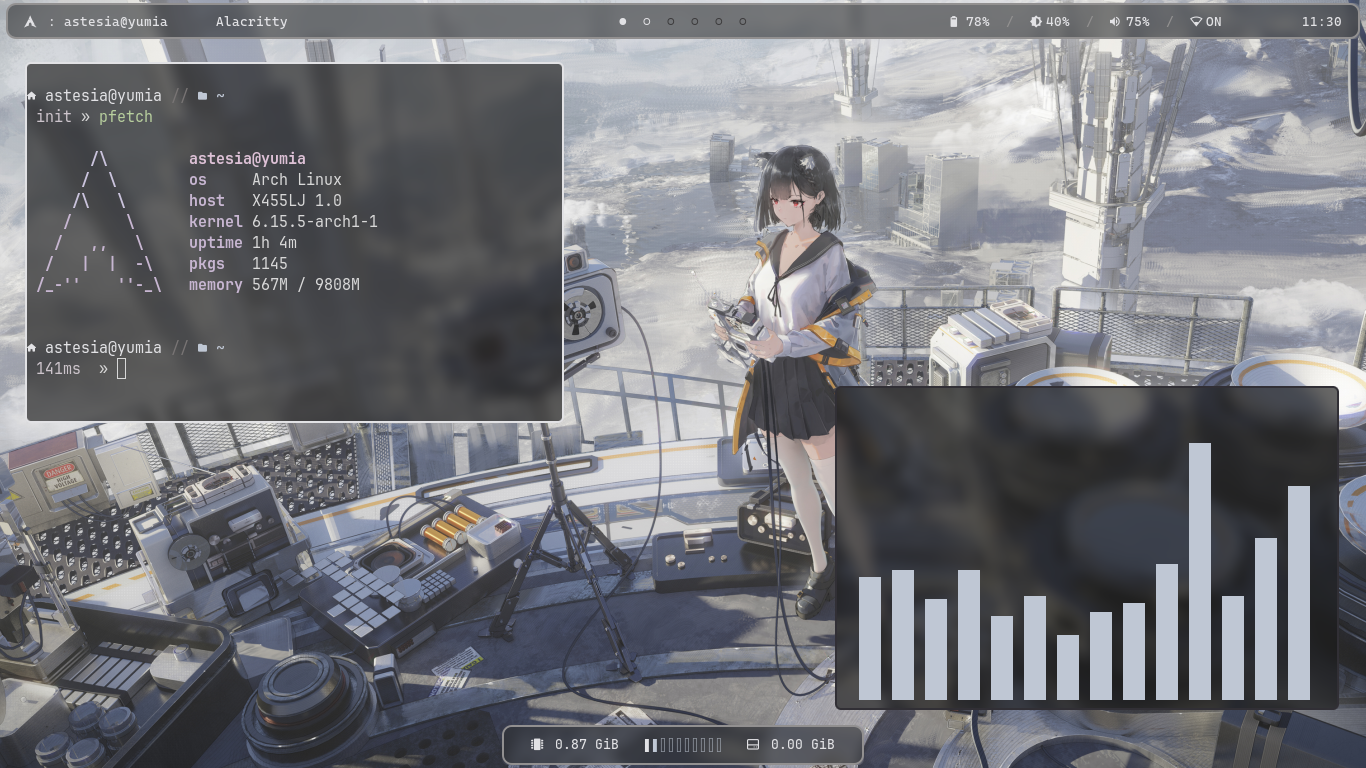
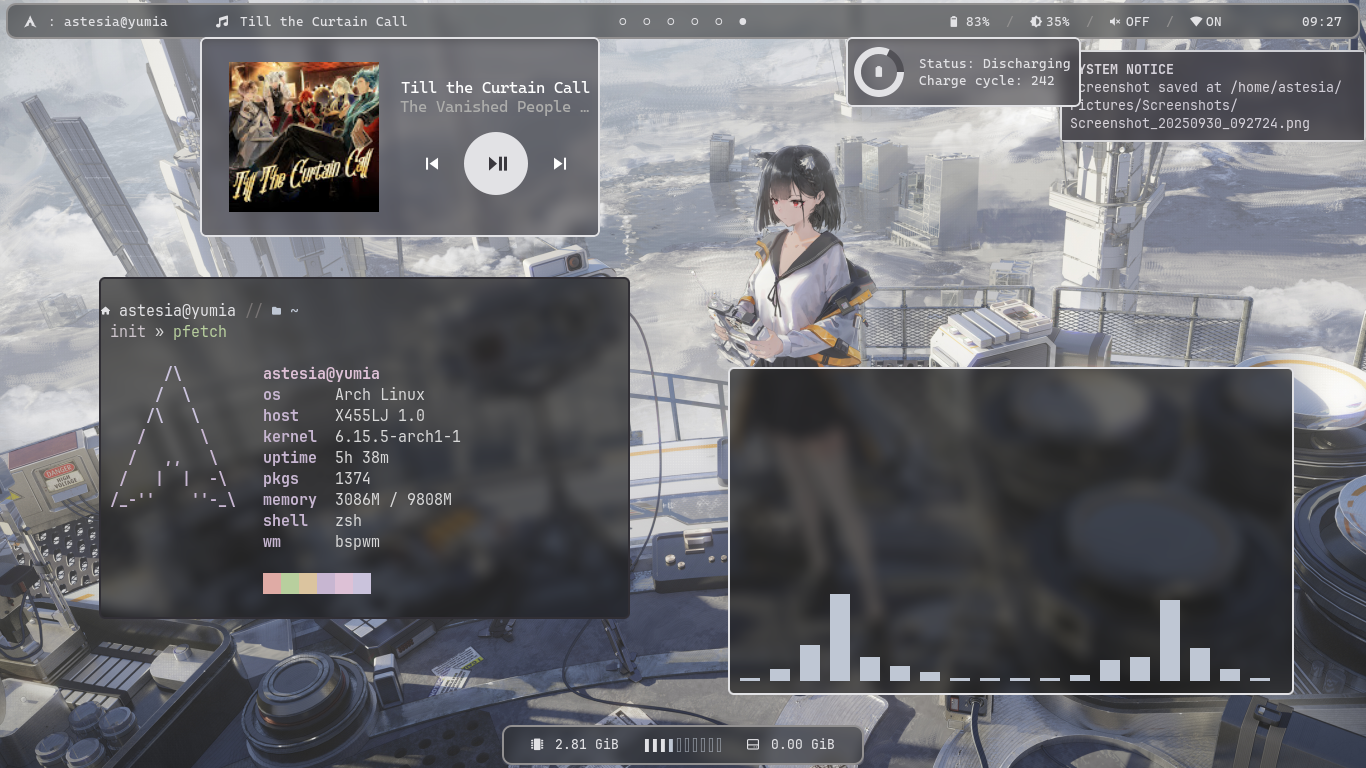
update: add widgets, fix music notif bug, and add music module to polybar

diff --git a/dotfiles/eww/eww.scss b/dotfiles/eww/eww.scss
@@ -1,0 +1,63 @@
+* {
+    all: unset;
+    font-family: "CaskaydiaMono NF", "Noto Sans CJK JP";
+}
+
+.bat_widget {
+    color: rgb(226, 226, 229);
+    padding: 6px;
+    background-color: rgba(58, 56, 62, 0.6);
+    border-radius: 6px;
+    border-width: 2px;
+    border-style: solid;
+    border-color: rgb(226, 226, 229);
+
+}
+
+.bat_chart {
+    background-color: rgba(58, 56, 62, 0.6);
+
+}
+
+.bat_status_cont {
+    padding-left: 15px;
+
+}
+
+.music_widget {
+    padding: 6px;
+    background-color: rgba(58, 56, 62, 0.6);
+    border-radius: 6px;
+    border-width: 2px;
+    border-style: solid;
+    border-color: rgb(226, 226, 229);
+
+}
+
+.music_artist_label {
+    color: rgb(173, 173, 171);
+
+}
+
+.music_playpause_button {
+    background-color: rgb(226, 226, 229);
+    color: rgb(58, 56, 62);
+    border-radius: 50%;
+
+}
+
+.music_controls {
+    padding-top: 16px;
+
+}
+
+.music_info label {
+    font-size: 1.2em;
+
+}
+
+.music_controls button {
+    font-size: 1.5em;
+    padding: 17px;
+
+}

diff --git a/README.md b/README.md
@@ -13,6 +13,7 @@ This is my collection of scripts and dotfiles that i used. This thing exist beca
 - Material you based color scheme
 - Very minimalist and modern
 - Lots of system informations on screen (CPU load, swap and memory usage, username and hostname display)
+- Widgets with eww
 
 ## Requirements
 
@@ -33,6 +34,7 @@ This is my collection of scripts and dotfiles that i used. This thing exist beca
 - btop
 - CAVA
 - dunst
+- eww
 - picom
 - rofi
 - Polybar
